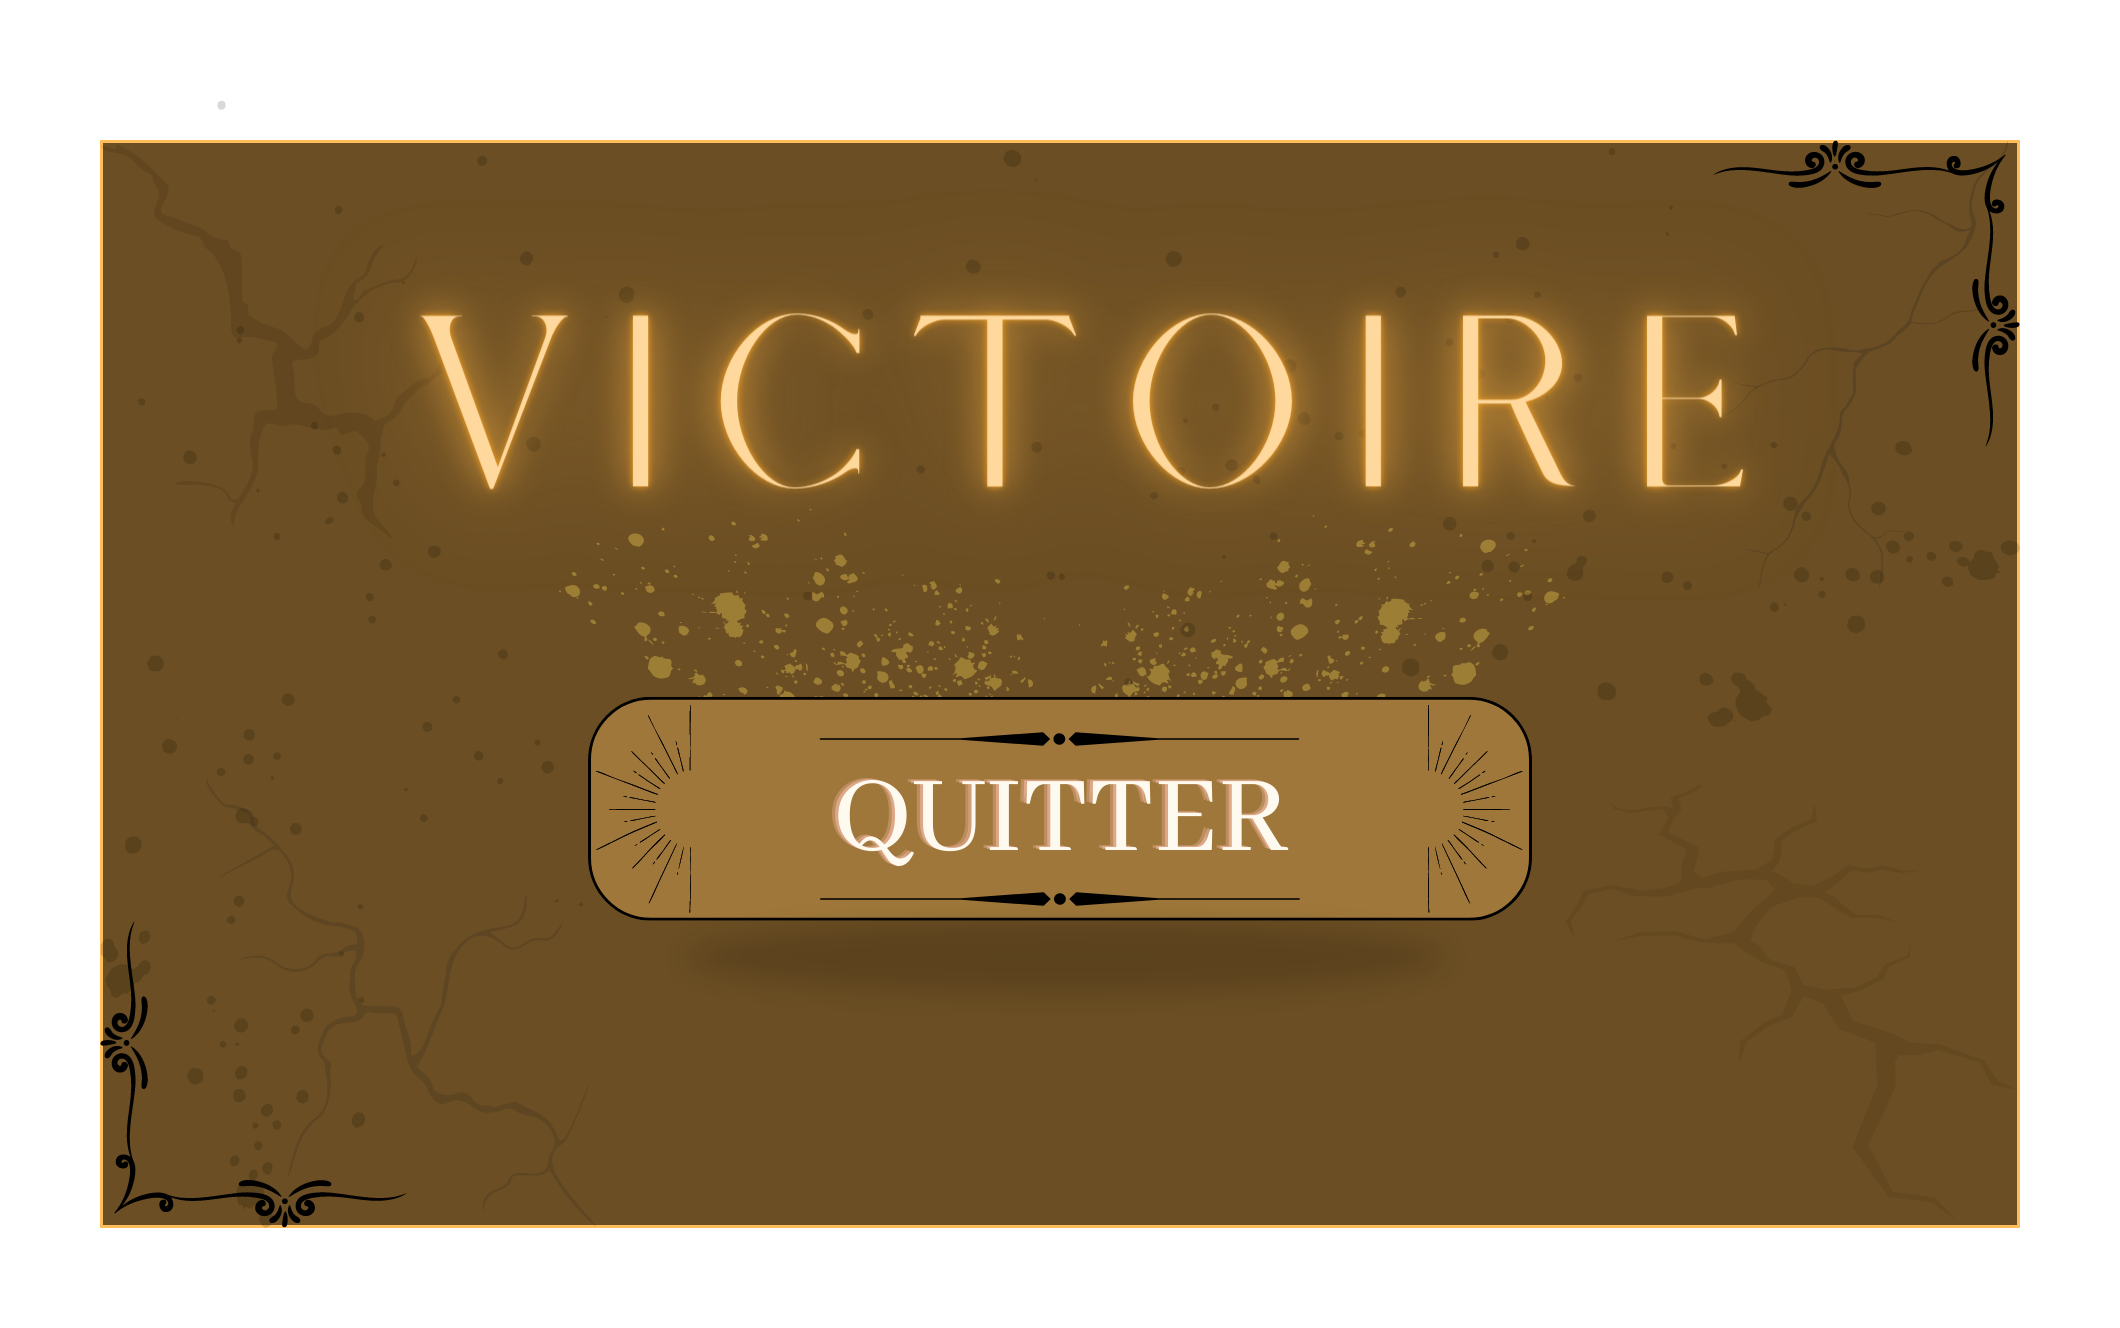
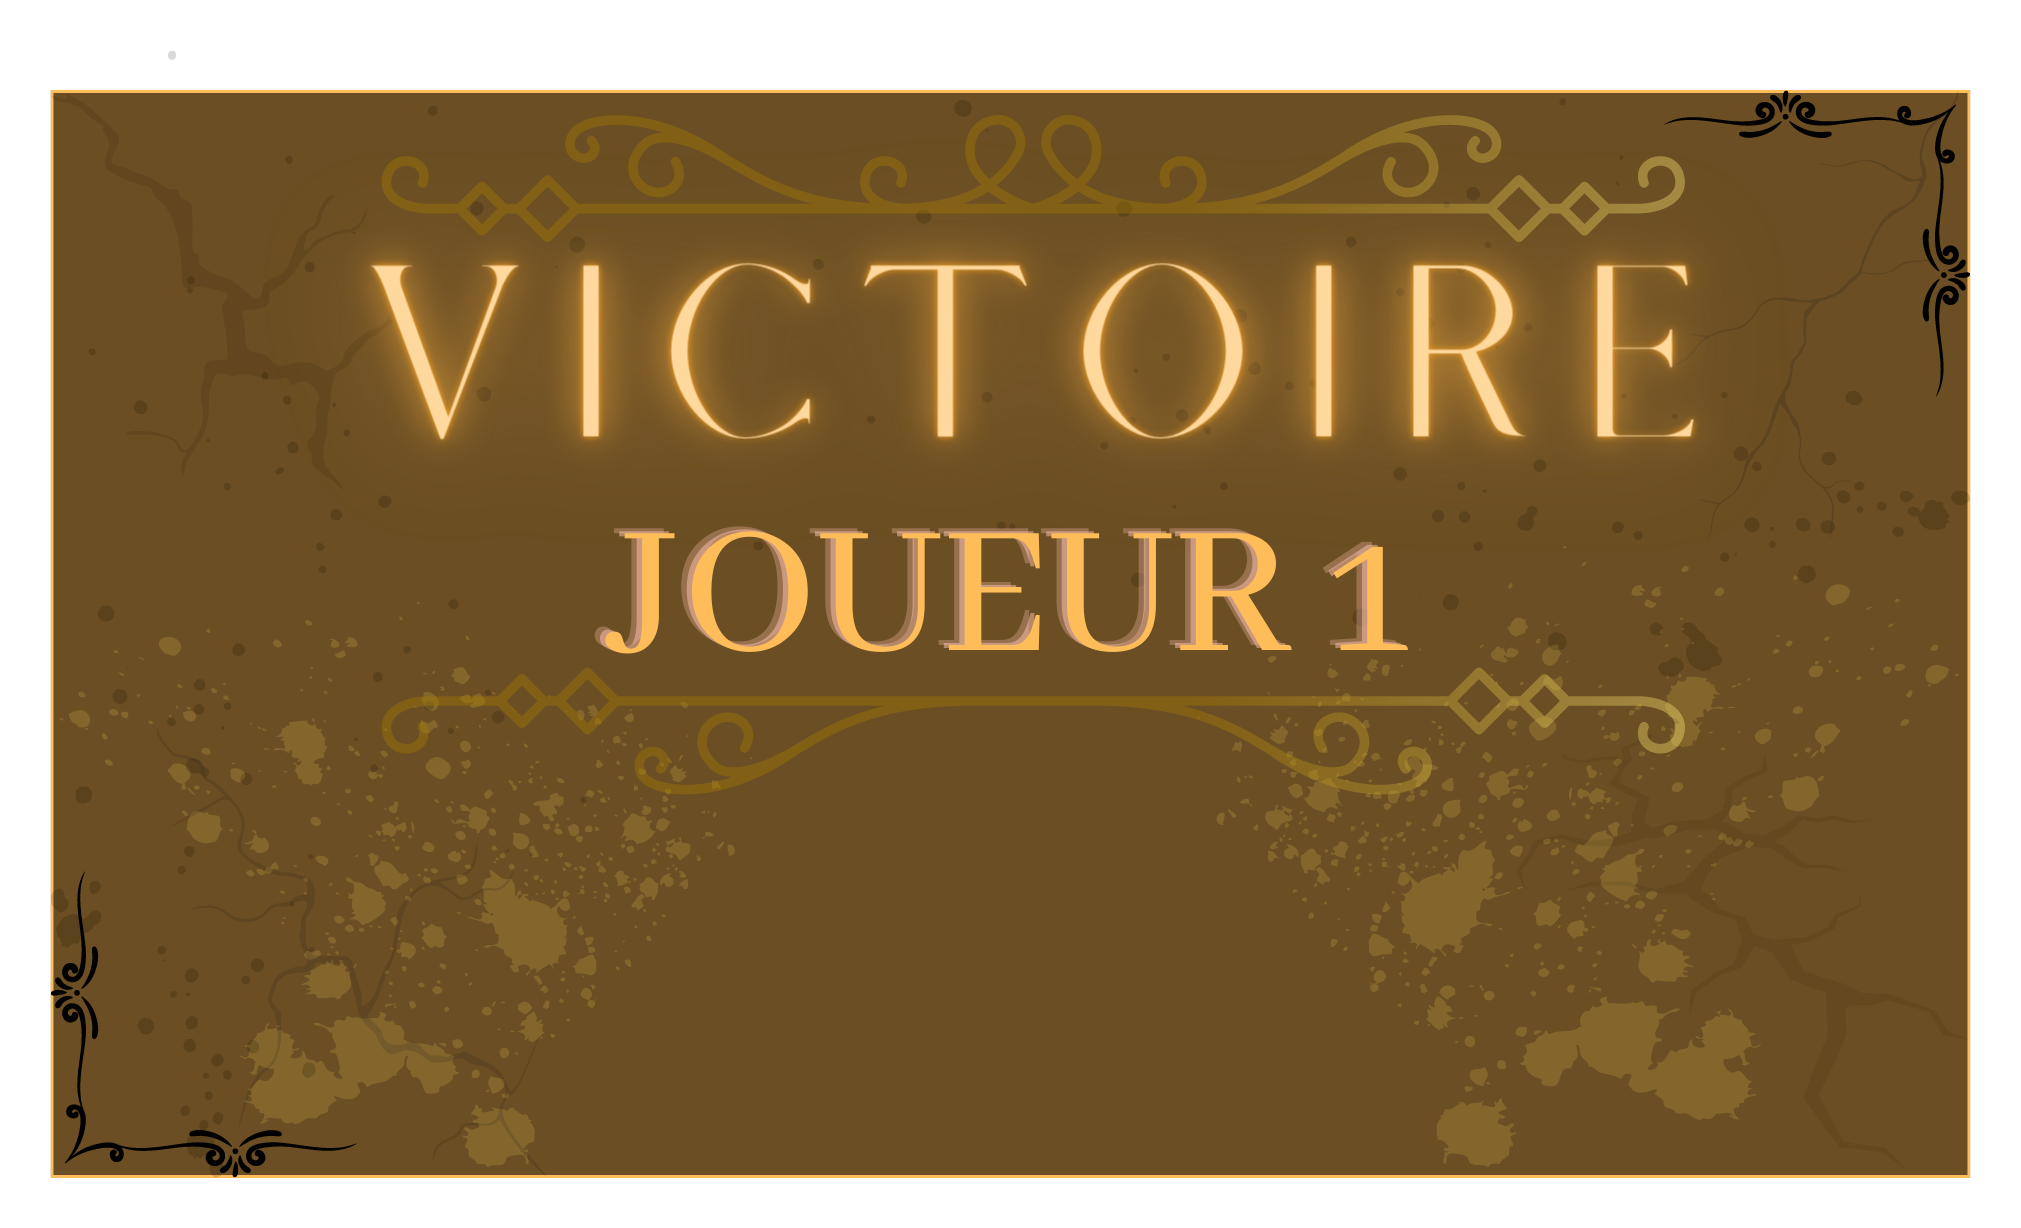
Menu de victoire + ajout bouton pour les animations

diff --git a/src/Vue/MenuInGameGraphique.java b/src/Vue/MenuInGameGraphique.java
@@ -6,10 +6,11 @@ import java.util.HashMap;
 
 import Global.Configuration;
 
-public class MenuOnGameGraphique extends JComponent{
+public class MenuInGameGraphique extends JComponent{
     ContinuumGraphique cg;
     InterfaceGraphique ig;
-    MenuButton [] bg = new MenuButton[5];
+    MenuButton [] leftSelect = new MenuButton[3];
+    MenuButton [] rightSelect = new MenuButton[3];
     MenuButton retourB;
     int ratioXBouton = 1200, ratioYBouton = 400;
     int ratioXFond = 4608, ratioYFond = 3072;
@@ -17,7 +18,7 @@ public class MenuOnGameGraphique extends JComponent{
     Image titre, background;
 
 
-    public MenuOnGameGraphique(InterfaceGraphique ig, ContinuumGraphique cg, HashMap<String, Image> imagesCache){
+    public MenuInGameGraphique(InterfaceGraphique ig, ContinuumGraphique cg, HashMap<String, Image> imagesCache){
         this.cg = cg;
         this.ig = ig;
 
@@ -60,23 +61,36 @@ public class MenuOnGameGraphique extends JComponent{
             }
         };
 
+        Runnable animation = new Runnable() {
+            public void run() {
+                Configuration.switchAnimation();
+                rightSelect[2].switchAnimation();
+            }
+        };
+
         Runnable quitteMenu = new Runnable() {
             public void run() {
                 cg.enleveMenu();
             }
         };
 
-        bg[0] = new MenuButton(rejouer, "Rejouer", false, imagesCache);
-        bg[1] = new MenuButton(sauvegarde,"Sauvegarder", false, imagesCache);
-        bg[2] = new MenuButton(musique,  "Musique", ig, imagesCache);
-        bg[3] = new MenuButton(sons,  "Effets_sonores", ig, imagesCache);
-        bg[4] = new MenuButton(quitter, "Menu_principal", false, imagesCache);
+        leftSelect[0] = new MenuButton(rejouer, "Rejouer", false, imagesCache);
+        leftSelect[1] = new MenuButton(sauvegarde,"Sauvegarder", false, imagesCache);
+        leftSelect[2] = new MenuButton(quitter, "Menu_principal", false, imagesCache);
+
+        rightSelect[0] = new MenuButton(musique,  "Musique", ig, imagesCache);
+        rightSelect[1] = new MenuButton(sons,  "Effets_sonores", ig, imagesCache);
+        rightSelect[2] = new MenuButton(animation, "Animation", ig, imagesCache);
 
         retourB = new MenuButton(quitteMenu, "Croix_quitter", imagesCache);
         add(retourB);
         
-        for(int i = 0; i < bg.length; i++){
-            add(bg[i]);
+        for(int i = 0; i < leftSelect.length; i++){
+            add(leftSelect[i]);
+        }
+
+        for(int i = 0; i < rightSelect.length; i++){
+            add(rightSelect[i]);
         }
 
         titre = Configuration.lisImage("Antinomy", imagesCache);
@@ -136,14 +150,20 @@ public class MenuOnGameGraphique extends JComponent{
         }
         
         
-        x = width/2 - largeurBouton/2;
+        x = width/3 - largeurBouton/2;
         y = height/2 - hauteurBouton/2;
 
-        int tailleEntreBouton = ((int)(0.85 * height) - y) - hauteurBouton*bg.length;
-        int espace = tailleEntreBouton / bg.length;
+        int tailleEntreBouton = ((int)(0.85 * height) - y) - hauteurBouton*leftSelect.length;
+        int espace = tailleEntreBouton / leftSelect.length;
 
-        for(int i = 0; i < bg.length ; i++){
-            bg[i].setBounds(x, y + (i*(hauteurBouton + espace)), largeurBouton, hauteurBouton);
+        for(int i = 0; i < leftSelect.length ; i++){
+            leftSelect[i].setBounds(x, y + (i*(hauteurBouton + espace)), largeurBouton, hauteurBouton);
+        }
+
+        x = width*2/3 - largeurBouton/2;
+
+        for(int i = 0; i < rightSelect.length ; i++){
+            rightSelect[i].setBounds(x, y + (i*(hauteurBouton + espace)), largeurBouton, hauteurBouton);
         }
 
         /*

diff --git a/src/Vue/ContinuumGraphique.java b/src/Vue/ContinuumGraphique.java
@@ -38,7 +38,7 @@ public class ContinuumGraphique extends JPanel {
     MenuButton indice;
 
     JFrame fenetre;
-    MenuOnGameGraphique menuOnGameGraphique;
+    MenuInGameGraphique menuInGameGraphique;
 
     int sceptreJ1, sceptreJ2;
 
@@ -199,7 +199,7 @@ public class ContinuumGraphique extends JPanel {
         
         this.add(codex);
         this.add(selecteur);
-        setComponentZOrder(selecteur, 0);
+        setComponentZOrder(selecteur, 1);
     }
 
     private void initializeMouseListener() {
@@ -243,7 +243,7 @@ public class ContinuumGraphique extends JPanel {
             setComponentZOrder(maskPanel, 0);
         }
         this.add(duel);
-        setComponentZOrder(duel, 0);
+        setComponentZOrder(duel, 1);
     }
 
     private void initEngrenage() {
@@ -258,7 +258,7 @@ public class ContinuumGraphique extends JPanel {
     }
 
     void initMenuGraphique() {
-        menuOnGameGraphique = new MenuOnGameGraphique(ig, this, imagesCache);   
+        menuInGameGraphique = new MenuInGameGraphique(ig, this, imagesCache);   
     }
 
     public void reset(){
@@ -269,14 +269,14 @@ public class ContinuumGraphique extends JPanel {
     }
 
     void ajoutMenuEnJeu(){
-        add(menuOnGameGraphique);
-        setComponentZOrder(menuOnGameGraphique, 0);
-        menuOnGameGraphique.setBounds(0, 0, getWidth(), getHeight());
-        menuOnGameGraphique.repaint();
+        add(menuInGameGraphique);
+        setComponentZOrder(menuInGameGraphique, 0);
+        menuInGameGraphique.setBounds(0, 0, getWidth(), getHeight());
+        menuInGameGraphique.repaint();
     }
 
     public void enleveMenu(){
-        remove(menuOnGameGraphique);
+        remove(menuInGameGraphique);
         miseAJour();
     }
 
@@ -375,7 +375,7 @@ public class ContinuumGraphique extends JPanel {
             if (scoreJ2 != Compteur.getInstance().getJ2Points()) {
                 x1 = sceptre2.getX() + sceptre2.getWidth() / 2;
                 y1 = sceptre2.getY() + sceptre2.getHeight() / 2;
-                setComponentZOrder(sceptre2, 2);
+                setComponentZOrder(sceptre2, 3);
             }
             x2 = sceptre1.getX() + sceptre1.getWidth() / 2;
             y2 = sceptre1.getY() + sceptre1.getHeight() / 2;
@@ -385,7 +385,7 @@ public class ContinuumGraphique extends JPanel {
             if (scoreJ1 != Compteur.getInstance().getJ1Points()) {
                 x1 = sceptre1.getX() + sceptre1.getWidth() / 2;
                 y1 = sceptre1.getY() + sceptre1.getHeight() / 2;
-                setComponentZOrder(sceptre1, 2);
+                setComponentZOrder(sceptre1, 3);
             }
             x2 = sceptre2.getX() + sceptre2.getWidth() / 2;
             y2 = sceptre2.getY() + sceptre2.getHeight() / 2;

diff --git a/src/Vue/MenuVictoireGraphique.java b/src/Vue/MenuVictoireGraphique.java
@@ -1,0 +1,84 @@
+package Vue;
+
+import javax.swing.*;
+import java.awt.*;
+import java.util.HashMap;
+import java.awt.event.*;
+
+import Global.Configuration;
+
+public class MenuVictoireGraphique extends JComponent {
+    Image victoire, background;
+    int ratioXFond = 4608, ratioYFond = 3072;
+    int ratioXVictoire = 2021, ratioYVictoire = 1228;
+    MenuButton quitterB;
+
+    MenuVictoireGraphique(InterfaceGraphique ig, HashMap<String, Image> imagesCache, Boolean gagnant){
+
+        addMouseListener(new MouseAdapter() {
+            public void mouseClicked(MouseEvent e) {
+                ig.backVictoireToMenuPrincipal();
+            }
+        });
+
+        Runnable quitter = new Runnable() {
+            public void run() {
+                ig.backVictoireToMenuPrincipal();
+            }
+        };
+
+        quitterB = new MenuButton(quitter, "Quitter", false, imagesCache);
+
+        add(quitterB);
+
+        victoire = gagnant ? Configuration.lisImage("Menu/Victoire", imagesCache)
+            : Configuration.lisImage("Menu/Défaite", imagesCache);        
+        background = Configuration.lisImage("background", imagesCache);
+    }
+
+    public void paintComponent(Graphics g){
+        Graphics2D g2d = (Graphics2D) g;
+
+        Graphics2D drawable = (Graphics2D) g;
+        int height = getHeight();
+        int width = getWidth();
+
+        /*
+        ####################### DRAW BACKGROUND #######################
+        */
+
+        int largeurFond = width;
+        int hauteurFond = height;
+
+        if (largeurFond * ratioYFond <= hauteurFond * ratioXFond) {
+            largeurFond = hauteurFond * ratioXFond / ratioYFond;
+        } else {
+            hauteurFond = largeurFond * ratioYFond / ratioXFond;
+        }
+
+        int x = width/2 - largeurFond/2;
+        int y = height/2 - hauteurFond/2;
+
+        drawable.drawImage(background, x, y, largeurFond, hauteurFond, null);
+
+        /*
+        ####################### DRAW TITLE #######################
+        */
+
+        int largeurTitre = 4*width/6;
+        int hauteurTitre = 2*height/7;
+
+        if (largeurTitre * ratioYVictoire > hauteurTitre * ratioXVictoire) {
+            largeurTitre = hauteurTitre * ratioXVictoire / ratioYVictoire;
+        } else {
+            hauteurTitre = largeurTitre * ratioYVictoire / ratioXVictoire;
+        }
+
+        x = width/2 - largeurTitre/2;
+        y = height/2 - hauteurTitre/2;
+
+
+        drawable.drawImage(victoire, x, y, largeurTitre, hauteurTitre, null);
+    }
+    
+}

diff --git a/src/Vue/InterfaceGraphique.java b/src/Vue/InterfaceGraphique.java
@@ -6,7 +6,6 @@ import Modele.Jeu;
 import javax.sound.sampled.*;
 import javax.swing.*;
 import java.awt.*;
-import java.io.File;
 import java.io.InputStream;
 import java.util.HashMap;
 import java.awt.event.*;
@@ -22,7 +21,7 @@ public class InterfaceGraphique implements Runnable, InterfaceUtilisateur {
     HashMap<String, Image> imagesCache = new HashMap<String, Image>();
 
     JPanel gameMenu;
-    JPanel finMenu;
+    MenuVictoireGraphique finMenu;
 
     MenuPrincipalGraphique menuPrincipal;
     MenuOptionsGraphique menuOptions;
@@ -76,7 +75,6 @@ public class InterfaceGraphique implements Runnable, InterfaceUtilisateur {
         creerMenuOptions();
         creerMenuJeu();
         creerTuto();
-        // creerMenuOnGame();
         addBackgroundSound();
         addSceptreSound();
         addSwapSound();
@@ -351,25 +349,15 @@ public class InterfaceGraphique implements Runnable, InterfaceUtilisateur {
 
     @Override
     public void setGagnant(Boolean gagnant) {
-        finMenu = new JPanel();
-        finMenu.setLayout(new BoxLayout(finMenu, BoxLayout.Y_AXIS));
-        Image Victoire = gagnant ? Configuration.lisImage("Menu/Victoire", imagesCache)
-                : Configuration.lisImage("Menu/Défaite", imagesCache);
-        Victoire = Victoire.getScaledInstance(800, 600, Image.SCALE_SMOOTH);
-        JLabel label = new JLabel(new ImageIcon(Victoire));
+        finMenu = new MenuVictoireGraphique(this, imagesCache, gagnant);
+        fenetre.remove(continuumGraphique);
+        fenetre.add(finMenu);
+        refresh();
+    }
 
-        finMenu.addMouseListener(new MouseAdapter() {
-            @Override
-            public void mouseClicked(MouseEvent e) {
-                fenetre.remove(finMenu);
-                fenetre.add(menuPrincipal);
-                refresh();
-            }
-        });
-
-        finMenu.add(label);
-        fenetre.setContentPane(finMenu);
-        fenetre.revalidate();
+    public void backVictoireToMenuPrincipal(){
+        fenetre.remove(finMenu);
+        fenetre.add(menuPrincipal);
         refresh();
     }
 

diff --git a/src/Vue/MenuButton.java b/src/Vue/MenuButton.java
@@ -14,7 +14,7 @@ public class MenuButton extends JComponent {
     Image imageB, imageS, imageBBarre = null, imageSBarre = null;
     Boolean estSurvol = false;
     Boolean lock = false;
-    Boolean Musique = false, Sons = false;
+    Boolean Musique = false, Sons = false, Animation = false;
 
     public MenuButton(Runnable action, String name, Boolean lock, HashMap<String, Image> imagesCache) {
         this.action = action;
@@ -106,14 +106,18 @@ public class MenuButton extends JComponent {
         action.run();
     }
 
+    public void switchAnimation(){
+        Animation = !Animation;
+    }
+
     public void paintComponent(Graphics g) {
         if (estSurvol || lock){
-            if(Musique && !ig.getBackgroundSound() || Sons && !ig.getSoundEffect())
+            if(Musique && !ig.getBackgroundSound() || Sons && !ig.getSoundEffect() || Animation)
                 g.drawImage(imageSBarre, 0, 0, getWidth(), getHeight(), null);              
             else
                 g.drawImage(imageS, 0, 0, getWidth(), getHeight(), null);
         } else {
-            if(Musique && !ig.getBackgroundSound() || Sons && !ig.getSoundEffect())
+            if(Musique && !ig.getBackgroundSound() || Sons && !ig.getSoundEffect() || Animation)
                 g.drawImage(imageBBarre, 0, 0, getWidth(), getHeight(), null);              
             else
                 g.drawImage(imageB, 0, 0, getWidth(), getHeight(), null);

diff --git a/src/Global/Configuration.java b/src/Global/Configuration.java
@@ -27,6 +27,8 @@ public class Configuration {
 	public static int difficulteIA = 10; // 1 : Aléatoire, >1 : MinMax
 	public static int typeHeuristique = 1; // 1 : score, 2 : score + position
 
+	public static Boolean animation = true;
+
 	protected Configuration() {
 		typeSequences = "Liste";
 	}
@@ -96,6 +98,10 @@ public class Configuration {
 
 	public static void setTypeHeuristique(int typeHeuristique) {
 		Configuration.typeHeuristique = typeHeuristique;
+	}
+
+	public static void switchAnimation() {
+		Configuration.animation = !Configuration.animation;
 	}
 
 

diff --git a/src/Controleur/ControleurMediateurLocal.java b/src/Controleur/ControleurMediateurLocal.java
@@ -378,8 +378,13 @@ public class ControleurMediateurLocal implements ControleurMediateur {
 		Boolean end;
 		if (end = jeu.estFini()){
 			state = ENDGAME;
+			decompte = -1;
 		}
 		return end;
+	}
+
+	public void stopTime(){
+		decompte = -1;
 	}
 
 }
